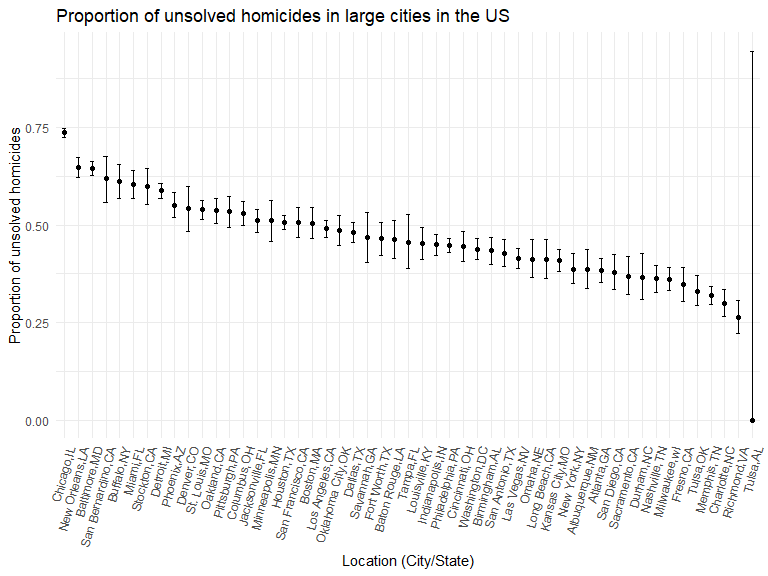
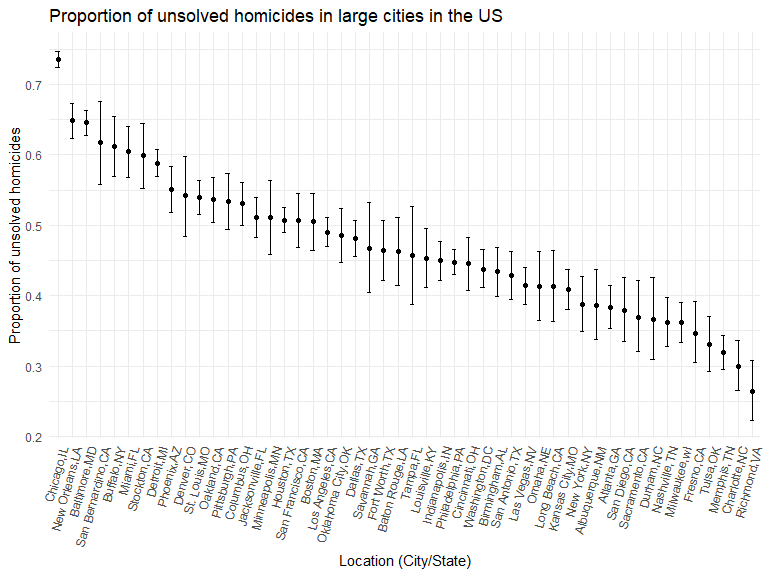
Problem 2 - Alter Tulsa

diff --git a/p8105_hw5_sz2957.md b/p8105_hw5_sz2957.md
@@ -64,17 +64,21 @@ outcome in a roughly linear way.
 
 ### Raw Data Import and Description
 
-The code chunk below imports the data from github website. To do this, I
-create a dataframe using `read_csv` to read the csv file. Then, I add a
-new variable `city_state` to illustrate the city and state together.
+-   The code chunk below imports the data from github website. To do
+    this, I create a dataframe using `read_csv` to read the csv file.
+    Then, I add a new variable `city_state` to illustrate the city and
+    state together.
+-   I notice that in one sample, Tusla has been wrongly allocated to AL
+    instead of OK. I have solved that by `str_replace`
 
 ``` r
 homicides_raw_df = 
   read_csv("data/homicide-data.csv") %>% 
   janitor::clean_names() %>% 
   mutate(
-    city_state = str_c(city,state,sep=",")
-  )
+    city_state = str_c(city,state,sep=",") %>% 
+    str_replace("Tulsa,AL", "Tulsa,OK")
+  ) 
 ```
 
 -   The raw data includes 13 columns and 52179.
@@ -152,8 +156,7 @@ homicides_count_df %>%
 | St. Louis,MO      |        905 |    1677 |
 | Stockton,CA       |        266 |     444 |
 | Tampa,FL          |         95 |     208 |
-| Tulsa,AL          |          0 |       1 |
-| Tulsa,OK          |        193 |     583 |
+| Tulsa,OK          |        193 |     584 |
 | Washington,DC     |        589 |    1345 |
 
 ### Estimate proprotion of homicides that are unsloved for Baltimore, MD
@@ -265,8 +268,7 @@ homicides_test_df %>%
 | St. Louis,MO      |    0.540 |       0.515 |       0.564 |
 | Stockton,CA       |    0.599 |       0.552 |       0.645 |
 | Tampa,FL          |    0.457 |       0.388 |       0.527 |
-| Tulsa,AL          |    0.000 |       0.000 |       0.945 |
-| Tulsa,OK          |    0.331 |       0.293 |       0.371 |
+| Tulsa,OK          |    0.330 |       0.293 |       0.371 |
 | Washington,DC     |    0.438 |       0.411 |       0.465 |
 
 ### Creat a plot to show the estimates and CIs for each city
